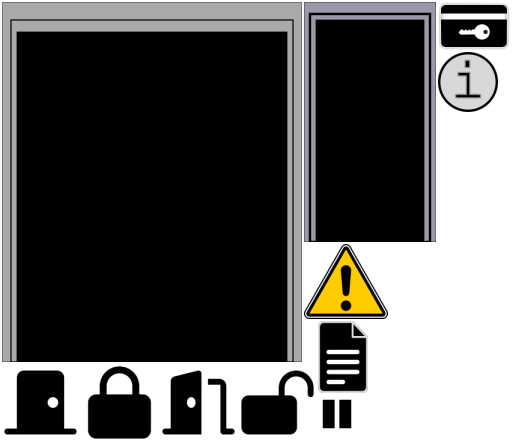
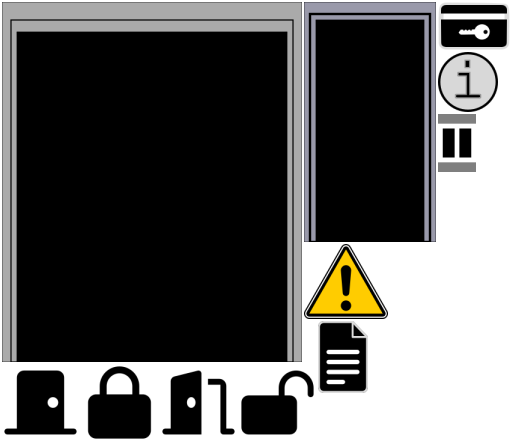
feat: extend switch sprite in line with extra 1.5 y scale

Changed region(s): [[0.8438, 0.2348, 0.9375, 0.4108], [0.625, 0.8804, 0.6875, 0.9684]]

diff --git a/docs/TODO.md b/docs/TODO.md
@@ -36,9 +36,9 @@
 - ✅ support `w.door.opacity`
   - `w update 'w => w.ceil.opacity = 1'`
 
-- 🚧 easier to touch switches
+- ✅ easier to touch switches
   - ✅ try scale up their transform
-  - maybe extend their sprite
+  - ✅ extend their sprite
 - ✅ avoid turn around behind offMeshConnection
   - ℹ only "on navigate from other side" e.g. click doorway center
   - ✅ fix overrideOffMeshConnectionAngle
